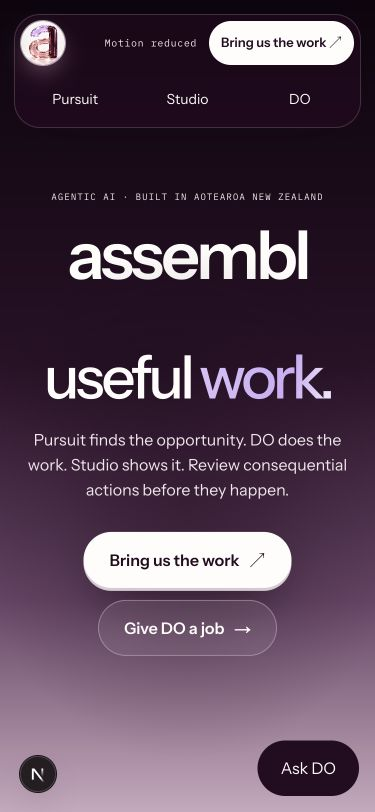
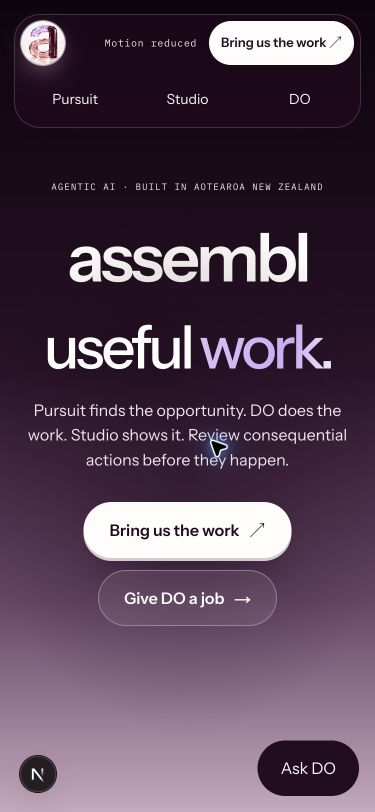
fix(home): make Direction 4c motion lifecycle accessible and resilient

diff --git a/components/site/direction-4c/motion.test.ts b/components/site/direction-4c/motion.test.ts
@@ -1,0 +1,125 @@
+import { readFileSync } from 'node:fs';
+import { runInNewContext } from 'node:vm';
+import { describe, expect, it, vi } from 'vitest';
+
+// Exercise the shipping page wiring with a stub renderer, so input/cleanup behavior
+// is tested without requiring a GPU or copying the engine's implementation.
+const source = readFileSync('public/direction-4c/assembl-tide.js', 'utf8');
+const wiring = source.slice(source.indexOf('async function attach('), source.indexOf('window.AssemblTide ='));
+async function fixture(initialReduced = false) {
+  const listeners = new Map<string, Set<() => void>>();
+  const frames = new Map<number, () => void>();
+  const motionListeners = new Set<() => void>();
+  let frameId = 0, top = 200;
+  const par = { style: { transform: '', opacity: '', transition: '' }, parentElement: { getBoundingClientRect: () => ({ top, height: 100 }) } };
+  const reveal = { style: { transform: '', opacity: '', transition: '' }, getAttribute: () => '0' };
+  const query = { matches: initialReduced, addEventListener: (_: string, fn: () => void) => motionListeners.add(fn), removeEventListener: (_: string, fn: () => void) => motionListeners.delete(fn) };
+  const api = { setForm: vi.fn(), setPointer: vi.fn(), setWide: vi.fn(), setPaused: vi.fn(), dispose: vi.fn() };
+  const context = {
+    matchMedia: () => query, innerHeight: 800, innerWidth: 1200, window: {}, console,
+    document: { documentElement: { toggleAttribute: vi.fn(), removeAttribute: vi.fn() }, querySelectorAll: (selector: string) => selector === '[data-par]' ? [par] : selector === '[data-rv]' ? [reveal] : selector.includes(',') ? [par, reveal] : [] },
+    requestAnimationFrame: (fn: () => void) => { frames.set(++frameId, fn); return frameId; },
+    cancelAnimationFrame: (id: number) => frames.delete(id),
+    addEventListener: (name: string, fn: () => void) => { if (!listeners.has(name)) listeners.set(name, new Set()); listeners.get(name)!.add(fn); },
+    removeEventListener: (name: string, fn: () => void) => listeners.get(name)?.delete(fn),
+    mount: async () => api,
+  };
+  const attach = runInNewContext(wiring + '\nattach;', context);
+  const world = await attach({ canvas: {} });
+  return { world, api, par, reveal, frames, listeners, motionListeners,
+    move: () => { top += 200; },
+    fire: (name: string) => [...(listeners.get(name) ?? [])].forEach(fn => fn()),
+    flush: () => { const pending = [...frames.values()]; frames.clear(); pending.forEach(fn => fn()); },
+    reduce: (value: boolean) => { query.matches = value; [...motionListeners].forEach(fn => fn()); },
+  };
+}
+
+describe('Direction 4c motion boundary', () => {
+  it('cancels queued parallax, removes motion listeners and keeps content readable while paused', async () => {
+    const f = await fixture();
+    expect(f.par.style.transform).toContain('translate3d');
+    f.fire('scroll');
+    expect(f.frames.size).toBe(1);
+    f.world.setPaused(true);
+    expect(f.frames.size).toBe(0);
+    expect(f.par.style.transform).toBe('none');
+    expect(f.reveal.style.opacity).toBe('1');
+    const formCalls = f.api.setForm.mock.calls.length;
+    f.move(); f.fire('scroll'); f.fire('resize'); f.fire('pointermove'); f.flush();
+    expect(f.par.style.transform).toBe('none');
+    expect(f.api.setForm).toHaveBeenCalledTimes(formCalls);
+    expect(f.api.setPointer).not.toHaveBeenCalled();
+    expect(f.listeners.get('scroll')?.size).toBe(0);
+    f.world.setPaused(false);
+    expect(f.par.style.transform).toContain('translate3d');
+    expect(f.listeners.get('scroll')?.size).toBe(1);
+    f.world.dispose();
+  });
+  it('clears displaced sections when reduced motion changes and restores motion only when allowed', async () => {
+    const f = await fixture();
+    f.reduce(true);
+    expect(f.par.style.transform).toBe('none');
+    expect(f.listeners.get('scroll')?.size).toBe(0);
+    f.world.setPaused(false);
+    expect(f.api.setPaused).toHaveBeenLastCalledWith(true);
+    f.reduce(false); f.world.setPaused(false);
+    expect(f.api.setPaused).toHaveBeenLastCalledWith(false);
+    expect(f.par.style.transform).toContain('translate3d');
+    f.fire('scroll'); f.world.dispose();
+    expect(f.frames.size).toBe(0);
+    expect(f.motionListeners.size).toBe(0);
+    expect(f.listeners.get('resize')?.size).toBe(0);
+    expect(f.par.style.transform).toBe('');
+    expect(f.reveal.style.opacity).toBe('');
+    expect(f.api.dispose).toHaveBeenCalledOnce();
+  });
+  it('starts without parallax under reduced motion', async () => {
+    const f = await fixture(true);
+    f.move(); f.fire('scroll'); f.flush();
+    expect(f.par.style.transform).toBe('none');
+    expect(f.api.setForm).not.toHaveBeenCalled();
+    expect(f.frames.size).toBe(0);
+    f.world.dispose();
+  });
+});
+
+// Run the actual controller in a tiny DOM harness to cover async lifecycle races.
+// No video/GPU dependency: the deferred world is a renderer boundary, not a copy of its logic.
+it('disposes an attach that resolves after media failure without restarting frames or seeking video', async () => {
+  const { transpileModule, ModuleKind, JsxEmit } = await import('typescript');
+  const component = readFileSync('components/site/direction-4c/Direction4cHome.tsx', 'utf8');
+  const js = transpileModule(component, { compilerOptions: { module: ModuleKind.CommonJS, jsx: JsxEmit.ReactJSX } }).outputText;
+  const frames = new Map<number, () => void>();
+  const videoEvents = new Map<string, () => void>();
+  const button = { setAttribute: vi.fn(), addEventListener: vi.fn(), removeEventListener: vi.fn(), textContent: '', disabled: false };
+  const canvas = { addEventListener: vi.fn(), removeEventListener: vi.fn() };
+  const root = { dataset: {} as Record<string, string>, toggleAttribute: vi.fn(), querySelectorAll: () => [], querySelector: (selector: string) => selector === '[data-pause]' ? button : selector.includes('canvasRef') ? canvas : null };
+  const video = { muted: false, playsInline: false, preload: '', duration: 24, currentTime: 0, seeking: false, src: '', pause: vi.fn(), load: vi.fn(), removeAttribute: vi.fn(), addEventListener: (name: string, fn: () => void) => videoEvents.set(name, fn), removeEventListener: (name: string) => videoEvents.delete(name) };
+  const world = { api: { setKnock: vi.fn(), setArrive: vi.fn() }, setPaused: vi.fn(), dispose: vi.fn() };
+  let resolveAttach!: (value: typeof world) => void;
+  const attach = vi.fn(() => new Promise<typeof world>(resolve => { resolveAttach = resolve; }));
+  let cleanup!: () => void;
+  const exported: { Direction4cHome?: () => void } = {};
+  const media = { matches: false, addEventListener: vi.fn(), removeEventListener: vi.fn() };
+  runInNewContext(js, {
+    exports: exported,
+    require: (name: string) => name === 'react' ? { useRef: () => ({ current: root }), useEffect: (fn: () => () => void) => { cleanup = fn(); } } : name === 'react/jsx-runtime' ? { jsx: () => null } : {},
+    document: { hidden: false, createElement: () => video, querySelector: () => ({ dataset: { loaded: 'true' } }), documentElement: { removeAttribute: vi.fn() }, addEventListener: vi.fn(), removeEventListener: vi.fn() },
+    window: { AssemblTide: { attach } }, matchMedia: () => media,
+    cancelAnimationFrame: (id: number) => frames.delete(id), requestAnimationFrame: (fn: () => void) => { frames.set(frames.size + 1, fn); return frames.size; },
+  });
+  exported.Direction4cHome!();
+  for (let n = 0; n < 8; n++) await Promise.resolve();
+  expect(attach).toHaveBeenCalledOnce();
+  videoEvents.get('error')!();
+  expect(root.dataset.static).toBe('true');
+  resolveAttach(world);
+  for (let n = 0; n < 8; n++) await Promise.resolve();
+  expect(world.dispose).toHaveBeenCalledOnce();
+  expect(root.dataset.ready).toBeUndefined();
+  expect(frames.size).toBe(0);
+  expect(video.currentTime).toBe(0);
+  expect(video.removeAttribute).toHaveBeenCalledWith('src');
+  cleanup();
+  expect(videoEvents.size).toBe(0);
+});

diff --git a/public/direction-4c/assembl-tide.js b/public/direction-4c/assembl-tide.js
@@ -616,10 +616,12 @@ async function mount(canvas, opts = {}) {
 
 // Page wiring shared by the assembl murmuration pages: scroll position → world shape, parallax, reveals, pointer, pause.
 async function attach({ canvas, preset, theme, plate, grade, onFail, engine, extra }) {
-  const reduced = matchMedia('(prefers-reduced-motion: reduce)').matches;
+  const motionQuery = matchMedia('(prefers-reduced-motion: reduce)');
+  let reduced = motionQuery.matches, paused = reduced, disposed = false;
   let io = null, api = null, raf = 0;
+  const savedStyles = Array.from(document.querySelectorAll('[data-par], [data-rv]'), el => [el, el.style.transform, el.style.opacity, el.style.transition]);
   if (!reduced && 'IntersectionObserver' in window) {
-    io = new IntersectionObserver(es => es.forEach(e => { if (e.isIntersecting) { e.target.style.opacity = '1'; e.target.style.transform = 'none'; io.unobserve(e.target); } }), { rootMargin: '0px 0px -10% 0px' });
+    io = new IntersectionObserver(es => es.forEach(e => { if (!paused && !disposed && e.isIntersecting) { e.target.style.opacity = '1'; e.target.style.transform = 'none'; io.unobserve(e.target); } }), { rootMargin: '0px 0px -10% 0px' });
     document.querySelectorAll('[data-rv]').forEach(el => {
       const d = parseInt(el.getAttribute('data-rv'), 10) || 0;
       el.style.opacity = '0'; el.style.transform = 'translateY(30px)';
@@ -640,26 +642,54 @@ async function attach({ canvas, preset, theme, plate, grade, onFail, engine, ext
     return pts[pts.length - 1][1];
   };
   const par = () => {
-    if (reduced) return;
+    if (reduced || paused || disposed) return;
     const vh = innerHeight;
     document.querySelectorAll('[data-par]').forEach(el => { const r = el.parentElement.getBoundingClientRect(); el.style.transform = 'translate3d(0,' + (((r.top + r.height / 2) - vh / 2) * 0.12).toFixed(1) + 'px,0)'; });
   };
-  const tick = () => { raf = 0; if (api) api.setForm(formAt()); par(); };
-  const onScroll = () => { if (!raf) raf = requestAnimationFrame(tick); };
-  const onMove = e => { if (api) api.setPointer((e.clientX / innerWidth) * 2 - 1, (e.clientY / innerHeight) * 2 - 1); };
-  const onResize = () => { if (api) api.setWide(innerWidth > 900); tick(); };
-  addEventListener('scroll', onScroll, { passive: true });
-  addEventListener('pointermove', onMove, { passive: true });
-  addEventListener('resize', onResize);
+  const tick = () => { raf = 0; if (paused || reduced || disposed) return; if (api) api.setForm(formAt()); par(); };
+  const onScroll = () => { if (!paused && !reduced && !disposed && !raf) raf = requestAnimationFrame(tick); };
+  const onMove = e => { if (!paused && !reduced && !disposed && api) api.setPointer((e.clientX / innerWidth) * 2 - 1, (e.clientY / innerHeight) * 2 - 1); };
+  const onResize = () => { if (paused || reduced || disposed) return; if (api) api.setWide(innerWidth > 900); tick(); };
+  const bindMotion = () => {
+    addEventListener('scroll', onScroll, { passive: true });
+    addEventListener('pointermove', onMove, { passive: true });
+    addEventListener('resize', onResize);
+  };
+  const unbindMotion = () => {
+    removeEventListener('scroll', onScroll);
+    removeEventListener('pointermove', onMove);
+    removeEventListener('resize', onResize);
+  };
+  if (!reduced) bindMotion();
   tick();
   try {
     api = await mount(canvas, { preset, theme, plate, grade, ...(extra || {}) });
     onResize();
   } catch (err) { console.warn('assembl world unavailable', err); if (onFail) onFail(); }
+  const setPaused = p => {
+    paused = Boolean(p) || reduced;
+    if (api) api.setPaused(paused);
+    document.documentElement.toggleAttribute('data-paused', paused);
+    if (paused) {
+      unbindMotion();
+      document.querySelectorAll('[data-par]').forEach(el => { el.style.transform = 'none'; });
+      if (raf) cancelAnimationFrame(raf);
+      raf = 0;
+      // Pausing must not strand unrevealed content at opacity zero.
+      document.querySelectorAll('[data-rv]').forEach(el => { el.style.transition = 'none'; el.style.opacity = '1'; el.style.transform = 'none'; });
+    } else { bindMotion(); onResize(); }
+  };
+  const onMotionChange = () => {
+    reduced = motionQuery.matches;
+    if (reduced) document.querySelectorAll('[data-par]').forEach(el => { el.style.transform = 'none'; });
+    setPaused(paused || reduced);
+  };
+  motionQuery.addEventListener('change', onMotionChange);
+  if (reduced) setPaused(true);
   return {
     get api() { return api; },
-    setPaused(p) { if (api) api.setPaused(p); document.documentElement.toggleAttribute('data-paused', p); },
-    dispose() { removeEventListener('scroll', onScroll); removeEventListener('pointermove', onMove); removeEventListener('resize', onResize); if (raf) cancelAnimationFrame(raf); if (io) io.disconnect(); if (api) api.dispose(); document.documentElement.removeAttribute('data-paused'); },
+    setPaused,
+    dispose() { disposed = true; motionQuery.removeEventListener('change', onMotionChange); savedStyles.forEach(([el, transform, opacity, transition]) => { el.style.transform = transform; el.style.opacity = opacity; el.style.transition = transition; }); unbindMotion(); if (raf) cancelAnimationFrame(raf); if (io) io.disconnect(); if (api) api.dispose(); document.documentElement.removeAttribute('data-paused'); },
   };
 }
 

diff --git a/components/site/direction-4c/Direction4cHome.tsx b/components/site/direction-4c/Direction4cHome.tsx
@@ -49,10 +49,10 @@ export function Direction4cHome() {
       delete root.dataset.ready;
       root.querySelectorAll<HTMLElement>('[data-rv]').forEach(el => { el.style.opacity = '1'; el.style.transform = 'none'; });
     };
-    const stop = () => { cancelAnimationFrame(frame); world?.dispose(); world = undefined; video.pause(); fallback(); };
+    const stop = () => { cancelAnimationFrame(frame); frame = 0; world?.dispose(); world = undefined; video.pause(); fallback(); };
     const updatePause = () => {
       root.toggleAttribute('data-paused', paused || media.matches);
-      world?.setPaused(paused || document.hidden);
+      world?.setPaused(paused || media.matches || document.hidden);
       // Engine has a document-wide pause switch; contain it to this page.
       document.documentElement.removeAttribute('data-paused');
       button.setAttribute('aria-pressed', String(paused || media.matches));
@@ -60,7 +60,7 @@ export function Direction4cHome() {
       button.disabled = media.matches;
     };
     const tick = () => {
-      if (disposed || media.matches) return;
+      if (disposed || media.matches || !world?.api) return;
       frame = requestAnimationFrame(tick);
       if (paused || document.hidden) return;
       const hero = ref('heroRef');
@@ -84,7 +84,7 @@ export function Direction4cHome() {
     let generation = 0;
     const start = async () => {
       const current = ++generation;
-      stop(); updatePause();
+      stop(); delete root.dataset.static; updatePause();
       if (media.matches) return;
       try {
         await loadScript('/direction-4c/vendor/three.min.js');
@@ -94,7 +94,7 @@ export function Direction4cHome() {
         const engine = (window as Window & { AssemblTide?: Tide }).AssemblTide;
         if (!engine) throw new Error('Motion engine unavailable');
         const next = await engine.attach({
-          canvas: ref('canvasRef') as HTMLCanvasElement, plate: video, onFail: fallback,
+          canvas: ref('canvasRef') as HTMLCanvasElement, plate: video, onFail: lost,
           extra: { tone: 'film', gliders: false, knockZoom: true, outline: .7, glass: false,
             count: 900, arrive: .22, birdScale: 1.2, silhouette: 1,
             slots: ['cloud', 'signal', 'pin', 'DO', 'bubble', 'tick', 'frame', 'sparkle', 'padlock', 'seal', 'amark', 'word'],
@@ -107,13 +107,18 @@ export function Direction4cHome() {
         });
         if (disposed || current !== generation) { next.dispose(); return; }
         world = next;
-        if (world.api) root.dataset.ready = 'true';
+        if (!world.api) { lost(); return; }
+        root.dataset.ready = 'true';
         updatePause(); tick();
-      } catch { fallback(); tick(); }
+      } catch { if (!disposed && current === generation) lost(); }
     };
     const toggle = () => { paused = !paused; updatePause(); };
     const visibility = () => updatePause();
-    const lost = () => { stop(); tick(); };
+    const lost = () => {
+      generation++; // A pending attach must never revive a failed scene.
+      stop(); root.dataset.static = 'true';
+      video.removeAttribute('src'); video.load();
+    };
     video.addEventListener('error', lost);
     ref('canvasRef')?.addEventListener('webglcontextlost', lost);
     button.addEventListener('click', toggle);

diff --git a/components/site/direction-4c/direction-4c.css b/components/site/direction-4c/direction-4c.css
@@ -54,3 +54,18 @@
 @media(prefers-reduced-motion:reduce){.direction-4c [data-ref="canvasRef"]{display:none!important}.direction-4c [data-fallback]{display:contents!important}.direction-4c [data-ref="kickRef"]{opacity:1!important;visibility:visible!important}}
 .direction-4c section[id]{scroll-margin-top:80px}
 @media(max-width:900px){.direction-4c section[id]{scroll-margin-top:140px}}
+/* Static hero uses normal flow so short screens and enlarged text cannot overlap. */
+@media(prefers-reduced-motion:reduce){
+  .direction-4c #top{height:auto!important;min-height:0}
+  .direction-4c #top>div{position:relative!important;height:auto!important;min-height:100svh;padding:180px 5.5% 70px;display:flex;flex-direction:column;align-items:center;gap:30px}
+  .direction-4c [data-ref="kickRef"]{position:static!important;order:0;transform:none!important}
+  .direction-4c [data-fallback] p{position:static!important;order:1;transform:none!important;font-size:min(18vw,200px)!important}
+  .direction-4c [data-ref="msgRef"]{position:relative!important;order:2;top:auto!important;left:auto!important;right:auto!important;width:100%;transform:none!important}
+}
+.direction-4c[data-static] [data-ref="canvasRef"]{display:none}
+.direction-4c[data-static] #top{height:auto!important;min-height:0}
+.direction-4c[data-static] #top>div{position:relative!important;height:auto!important;min-height:100svh;padding:180px 5.5% 70px;display:flex;flex-direction:column;align-items:center;gap:30px}
+.direction-4c[data-static] [data-ref="kickRef"]{position:static!important;order:0;transform:none!important;opacity:1!important;visibility:visible!important}
+.direction-4c[data-static] [data-fallback] p{position:static!important;order:1;transform:none!important;font-size:min(18vw,200px)!important}
+.direction-4c[data-static] [data-ref="msgRef"]{position:relative!important;order:2;top:auto!important;left:auto!important;right:auto!important;width:100%;transform:none!important;opacity:1!important;visibility:visible!important}
+.direction-4c[data-static] [data-ref="subRef"],.direction-4c[data-static] [data-ref="cueRef"]{display:none}

diff --git a/components/site/direction-4c/markup.ts b/components/site/direction-4c/markup.ts
@@ -122,6 +122,7 @@ export const directionMarkup = `<div style="position:relative;min-height:100vh;o
       <a href="/do" style="display:flex;align-items:center;min-height:44px;color:#FFFDFB;border-bottom:1px solid rgba(234,200,223,.16)" class="clear-hover-16">DO</a>
       <a href="/do/install" style="display:flex;align-items:center;min-height:44px;color:#FFFDFB;border-bottom:1px solid rgba(234,200,223,.16)" class="clear-hover-17">Install DO</a>
       <a href="/contact" style="display:flex;align-items:center;min-height:44px;color:#FFFDFB;border-bottom:1px solid rgba(234,200,223,.16)" class="clear-hover-18">Contact</a>
+      <a href="/legal/privacy" style="display:flex;align-items:center;min-height:44px;color:#FFFDFB;border-bottom:1px solid rgba(234,200,223,.16)">Privacy</a>
     </nav>
     <div style="display:flex;flex-direction:column;gap:10px;padding:20px 22px;border-radius:24px;background:rgba(255,253,251,.06);box-shadow:inset 0 0 0 1px rgba(234,200,223,.2)">
       <p style="margin:0;font:400 10.5px/1.4 var(--font-mono),'IBM Plex Mono',monospace;letter-spacing:.16em;text-transform:uppercase;color:#EAC8DF">review before action</p>

diff --git a/docs/design/direction-4c/README.md b/docs/design/direction-4c/README.md
@@ -8,7 +8,7 @@ Source project: https://claude.ai/design/p/9f22d4d4-067f-48dd-b031-a9b21e7da40e?
 
[1 lines of base64/hex data omitted]
 
-The static design template is adapted into server-rendered markup in `components/site/direction-4c/markup.ts`. It is trusted build-time content, not a user-input HTML sink. The React controller mounts/disposes the existing animation engine. `support.js` and its dynamic template interpreter are reference-only, never executed by the app. The sole engine adaptation resolves Next's actual Instrument Sans font family for canvas lettering.
+The static design template is adapted into server-rendered markup in `components/site/direction-4c/markup.ts`. It is trusted build-time content, not a user-input HTML sink. The React controller mounts/disposes the existing animation engine. `support.js` and its dynamic template interpreter are reference-only, never executed by the app. Engine adaptations resolve Next's actual Instrument Sans font family and apply the pause/reduced-motion boundary to scroll parallax, pointer input and queued frames, with style/listener cleanup.
 
 This is an intentionally homepage-specific composition. It reuses the supplied engine and existing product routes; it introduces no auth, provider, private route, database or execution primitives. Existing homepage components stay in-tree for rollback. The front-door guard accepts the authorized new homepage without removing its checks on DO or the retained atelier.
 
